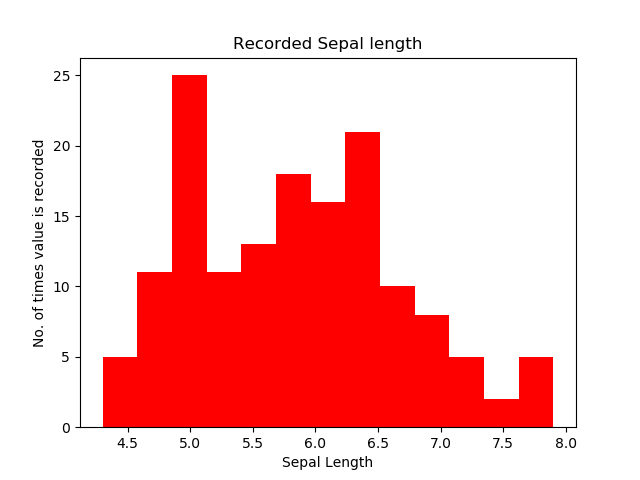
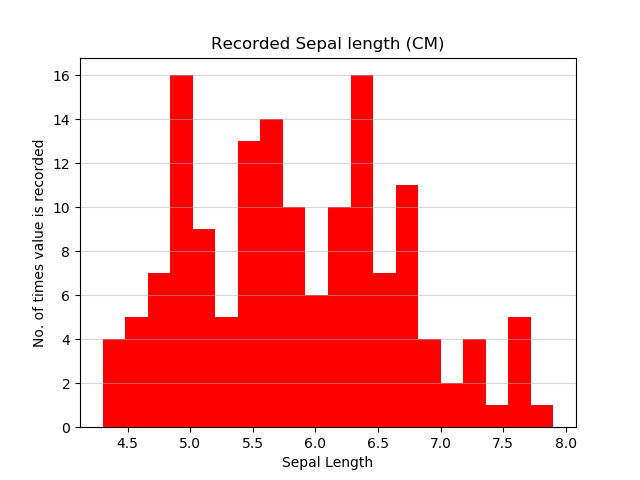
Final Review and submission Commit

diff --git a/analysis.py b/analysis.py
@@ -5,19 +5,14 @@
 #[4]
 import pandas as  pd
 import matplotlib.pyplot as plt
-import numpy as py
-
 from matplotlib import pyplot as plt #Imports the library to save output as PNG file. 
 
-
-df = pd.read_csv("iris_csv.csv")
-print (df.head(151))
-
+df = pd.read_csv("iris_csv.csv") # reads imported CSV file
 
 #[5]
-x=df["sepallength"].max()
-x1=df["sepallength"].min()
-x2=df["sepallength"].count()
+x=df["sepallength"].max()  #Returns the highest value from "Sepal Length"
+x1=df["sepallength"].min() #Returns the Lowest value from "Sepal Length"
+x2=df["sepallength"].count()  #Returns the total number of records in the coloumn
 
 y=df["sepalwidth"].max()
 y1=df["sepalwidth"].min()
@@ -28,62 +23,68 @@ z1=df["petallength"].min()
 w=df["petalwidth"].max()
 w1=df["petalwidth"].min()
 
-Total = (x2 * 3)
+Total = (x2) # Defines total number of records in a coloumn in a seperate variable 
+New_Total = int(Total/3) # Defines total number of entries per flower type 
+
 
 #[6]
 f = open("Summary.txt","w") #created Summary.txt file and appends to this file
-f.write(f"The total number of samples recorded is {Total}. \nThese samples are a combination of 3 sets of {x2} Iris flower classes. These classes include: \nSetosa \nVersicolor \nVirginica. \n") # used to display Summary.
-f.write(f"The largest value recorded for Sepal Length was {x} the smallest value recorded was {x1} from the {x2} samples.\n")
-f.write(f"The largest value recorded for Sepal width was {y} the smallest value recorded was {y1} from the {x2} samples.\n")
-f.write(f"The largest value recorded for Petal Length was {z} the smallest value recorded was {z1} from the {x2} samples.\n")
-f.write(f"The largest value recorded for Petal Length was {w} the smallest value recorded was {w1} from the {x2} samples.\n")
-f.write(f" By analysing the Histogram and Scatter plots prodcued by running the program it is possible ")
+f.write(f"The total number of samples recorded is {Total}. \nThese samples are a combination of 3 sets of {New_Total} Iris flower classes. These classes include: \nSetosa \nVersicolor \nVirginica. \n") # used to display Summary.
+f.write(f"The largest value recorded for Sepal Length was {x} the smallest value recorded was {x1} from the {New_Total} samples.\n")
+f.write(f"The largest value recorded for Sepal width was {y} the smallest value recorded was {y1} from the {New_Total} samples.\n")
+f.write(f"The largest value recorded for Petal Length was {z} the smallest value recorded was {z1} from the {New_Total} samples.\n")
+f.write(f"The largest value recorded for Petal Length was {w} the smallest value recorded was {w1} from the {New_Total} samples.\n")
+f.write(f" By analysing the Histogram and Scatter plots prodcued by running the program it is possible to categorize each varitation of the flower according to Sepal Length vs Sepal width and Petal Length vs Petal Width.")
 f.close() #close Summary.txt
 
 #[7]
-sepallenght = (df["sepallength"])
-plt.hist(sepallenght, bins= 13, color = "red") #plts the Histogram 
-plt.title("Recorded Sepal length")
-plt.xlabel("Sepal Length")
-plt.ylabel("No. of times value is recorded")
-plt.savefig('Sepal Length.png')
-plt.show()# displays Histograms .
+sepallenght = (df["sepallength"]) #Reads in data from Sepal Length Column from CVS file.
+plt.hist(sepallenght, bins= 20, color = "red") #plots Histogram with column color red
+plt.grid(axis='y', alpha=0.5) # Gridlines on for Y axis width determined by alpha value. 
+plt.title("Recorded Sepal length (CM)") # Plots Histogram Title
+plt.xlabel("Sepal Length") # Plots X axis Title
+plt.ylabel("No. of times value is recorded")# Plots Y axis Title
+plt.savefig('Sepal Length.png') #Saves Histogram as PNG file. 
+plt.show()# displays Histograms.
 
 sepalwidth = (df["sepalwidth"])
-plt.hist(sepalwidth, bins= 13, color = "blue") #plts the Histogram 
-plt.title("Recorded Sepal Width in CM")
+plt.hist(sepalwidth, bins= 20, color = "blue") 
+plt.grid(axis='y', alpha=0.5)
+plt.title("Recorded Sepal Width  (CM)")
 plt.xlabel("Sepal Width")
 plt.ylabel("No. of times value is recorded")
 plt.savefig('Sepal Width.png')
-plt.show()# displays Histograms
+plt.show()
 
 petallength = (df["petallength"])
-plt.hist(petallength, bins= 13, color = "orange") #plts the Histogram 
-plt.title("Recorded Petal length")
+plt.hist(petallength, bins= 20, color = "orange") 
+plt.grid(axis='y', alpha=0.5)
+plt.title("Recorded Petal length (CM)")
 plt.xlabel("Petal Length")
 plt.ylabel("No. of times value is recorded")
 plt.savefig('Petal Length.png')
-plt.show()# displays Histograms
+plt.show()
 
 
 petalwidth = (df["petalwidth"])
-plt.hist(petalwidth, bins= 13, color = "green") #plts the Histogram 
-plt.title("Recorded Petal Width")
+plt.hist(petalwidth, bins= 20, color = "green") 
+plt.grid(axis='y', alpha=0.5)
+plt.title("Recorded Petal Width (CM)")
 plt.xlabel("Petal Width")
 plt.ylabel("No. of times value is recorded")
 plt.savefig('Petal Width.png')
-plt.show()# displays Histograms
+plt.show()
 
 #[4]
-plt.scatter(df["sepallength"], df["sepalwidth"]) #plots two variables to a scatter plot
-plt.title("Sepal length vs Sepal Width")
-plt.xlabel("Sepal Length")
-plt.ylabel("Sepal Width")
-plt.show() #Displays Scatter Plot
+plt.scatter(df["sepallength"],df["sepalwidth"])#plots two variables to a scatter plot
+plt.title("Petal length vs Petal Width") # Plots Scatter Plot Title
+plt.xlabel("Petal Length") # Plots X axis Title
+plt.ylabel("Petal Width") # Plots Y axis Title
+plt.show()   # displays Scatter plot.
 
-plt.scatter(df["petallength"],df["petalwidth"])#plots two variables to a scatter plot
+plt.scatter(df["petallength"],df["petalwidth"])
 plt.title("Petal length vs Petal Width")
 plt.xlabel("Petal Length")
 plt.ylabel("Petal Width")
-plt.show() #Displays Scatter Plot
+plt.show() 
 

diff --git a/README.md b/README.md
@@ -43,14 +43,15 @@ It is also widely acknowledged as the best known example in the field of machine
 * The Fisher Iris Data Set (saved in CSV formatt) is then read into the program using the ***df = pd.read_csv("iris_csv.csv")*** this file is used in the creation of the Summary.txt, Histograms and Scatter Plots.<br>
 * Max and minimum values are defined to assist in the analysis of the data set in the creation of the ***Summary.txt*** file.<br>
 * Program opens the ***Summary.txt*** and writes (w), the summary of the analysis of each of the variables to this txt file.<br>
+* f.close () closes the ***Summary.txt file***.
 * Histogram of each of the variables is saved in PNG formatt in the file directory.<br>
-* Scatter plots for the different variables then created and displayed as the program is run. <br>
+* Scatter plots for the different variables are then created and displayed as the program is run. <br>
 
 * The following outputs are automatically created when the program is run: <br>
 1. A summary of the Fisher Iris Data Set, the operation of the program, the expected program outputs, approach taking to complete the project and the references used when creating the program in the ***README***.
 2. Anaylsis of the Data Set in the form ***Summary.txt***.
 3. ***Histogram*** of each of the variables saved in ***PNG formatt***.
-4. ***Scatter*** plots of each of the variables. 
+4. ***Scatter*** plots of each pairs of variables variables. 
 
 #### Project Approach 
 * Reviewed project requirments as indentified by the problem statment.<br>
@@ -65,7 +66,8 @@ It is also widely acknowledged as the best known example in the field of machine
 * Researched writing to txt files in python and included in analysis.py program. <br>
 * Researched creating and saving Histograms as PNG files in python and included in analysis.py program.<br>
 * Created scatter plot for inital pair of variables.<br>
-* All References used in the creation of this program are idenified below or in the code as [#] <br>
+* All References used in the creation of this program are idenified below or in the code as [#]. <br>
+* Reviewed the project before the final commit for submission. 
 * Github was used to save all commits while carrying out the project
 
 
